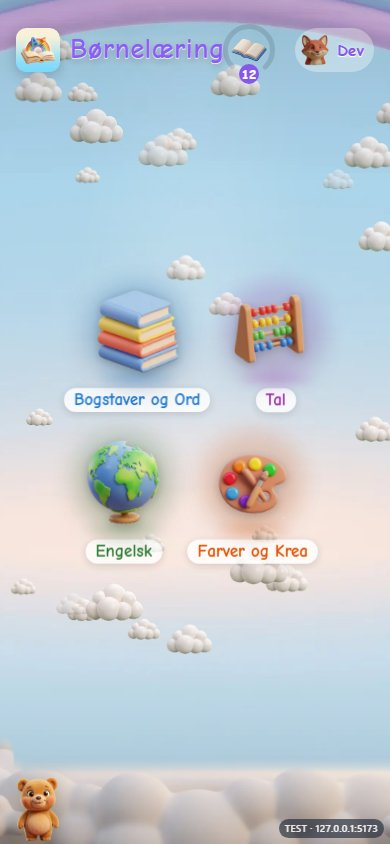
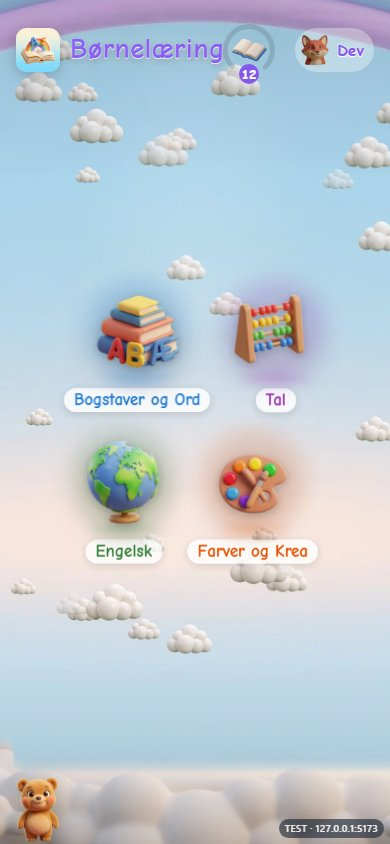
feat(doors): W4 — Bogstaver og Ord gets its own door art (books + clay A/B/Æ)
Owner's Gemini render, green-keyed via `optimize-theme-art.mjs doors` at the section
icons' 512²/0.81 fill (0 green-excess pixels left; letters legible at home size).
doors.test.ts guards that every door has art and that the letters door uses its
own render (re-broken: the book-stack placeholder goes red). ui-reference re-shot.

Changed region(s): [[0.2462, 0.3389, 0.4615, 0.4621]]

diff --git a/src/assets/themes/icons/index.ts b/src/assets/themes/icons/index.ts
@@ -8,6 +8,8 @@ import english from './english.webp'
 import ordleg from './ordleg.webp'
 // The owner's easel (Krea PRD-01 batch G) — deliberately NOT a palette, which is Farver's icon.
 import krea from './krea.webp'
+// The Bogstaver og Ord DOOR (Category restructure PRD-01) — books + clay letters A/B/Æ.
+import letters from './letters.webp'
 
 export type SectionIconId = 'alphabet' | 'math' | 'colors' | 'english' | 'ordleg' | 'krea'
 
@@ -24,14 +26,14 @@ export const sectionIconImages: Record<SectionIconId, string> = {
 // title says and what is behind it, because a 5-year-old picks a door by its picture:
 //   • Farver og Krea REUSES the palette — the paint blobs say "Farver", the brush says "Krea", and no
 //     tile inside that menu uses a palette, so nothing repeats. (Re-trimmed, never re-keyed.)
-//   • Bogstaver og Ord is owed ONE new render — the book stack plus clay letters A/B/Æ
-//     (`plans/category-restructure/door-art-prompts.md`). Until it lands it shows the plain book stack,
-//     which is also the PRD's fallback if the letters come out garbled.
+//   • Bogstaver og Ord has its OWN render — the book stack plus clay letters A/B/Æ (owner, 2026-10-17;
+//     `plans/category-restructure/door-art-prompts.md`, keyed by `optimize-theme-art.mjs doors`). The
+//     books say "Ord", the letters say "Bogstaver".
 // The speech bubble (`ordleg`) and the easel (`krea`) are NOT door art; they retire at the 1.3 release
 // with the five-section home that still shows them.
 export type DoorIconId = 'letters' | 'math' | 'english' | 'colors'
 export const doorIconImages: Record<DoorIconId, string> = {
-  letters: alphabet,
+  letters,
   math,
   english,
   colors,

diff --git a/src/config/doors.test.ts b/src/config/doors.test.ts
@@ -117,6 +117,18 @@ test('every door tile resolves to its own section\'s game and its own icon art',
   assert.throws(() => doorTiles(['alphabet.read']), /no such game/)
 })
 
+// D7: every door has its own baked picture, and Bogstaver og Ord shows the books+letters render — not
+// the plain book stack it borrowed while the render was owed. Read as TEXT: the manifest imports WebP.
+test('every door has door art, and Bogstaver og Ord has its own render', () => {
+  const manifest = readFileSync(new URL('../assets/themes/icons/index.ts', import.meta.url), 'utf8')
+  const block = manifest.slice(manifest.indexOf('export const doorIconImages'))
+  const body = block.slice(0, block.indexOf('}'))
+  for (const d of DOORS) assert.match(body, new RegExp(`\\b${d.id}\\b`), `door "${d.id}" has no art entry`)
+  assert.match(body, /^\s*letters,\s*$/m, 'Bogstaver og Ord is not wired to its own render')
+  assert.match(manifest, /^import letters from '\.\/letters\.webp'$/m)
+  assert.ok(existsSync(new URL('../assets/themes/icons/letters.webp', import.meta.url)), 'letters.webp missing')
+})
+
 test('gameId helpers split on the FIRST dot only', () => {
   assert.equal(sectionOfGame('colors.ram-farven'), 'colors')
   assert.equal(tileIdOfGame('colors.ram-farven'), 'ram-farven')

diff --git a/plans/category-restructure/tmp-prd-category-restructure-01-four-doors.md b/plans/category-restructure/tmp-prd-category-restructure-01-four-doors.md
@@ -306,10 +306,11 @@ reads at a glance; safe-area insets around the mascot on the real device.
 
 ## 10. Progress log (implemented 2026-10-17, same session, owner away; not pushed)
 
-Status: **W0–W3, W5–W7 IMPLEMENTED** on master, behind the Krea gate. **W4 partly done**: the palette is
-wired, the prompt doc has been handed over, and **the Bogstaver og Ord render is owed by the owner** —
-until then that door shows the plain book stack (D7's fallback). **R (release) has not been done** and
-is the owner's call at 1.3.
+Status: **W0–W7 IMPLEMENTED** on master, behind the Krea gate. W4 finished the same day, once the owner
+delivered the Bogstaver og Ord render: `art-src/icons/letters.jpg` → `optimize-theme-art.mjs doors` →
+`icons/letters.webp`. It keyed clean, with zero green-excess pixels left and A/B/Æ legible at home size.
+The new `doors.test.ts` coverage guard is re-broken: wiring `letters` back to the book stack goes red.
+**R (release) has not been done**, and it is the owner's call at 1.3.
 
 Commits: 9d38a24 W0 · 3a23366 W1 · 34aab62 W2 · 850c963 W3 · 3ec08be W5 · ac4140d W6 · daf1f47 W7 ·
 fixes after re-break/sweep (rowLevel, sweep hidden trays, centred home field).
